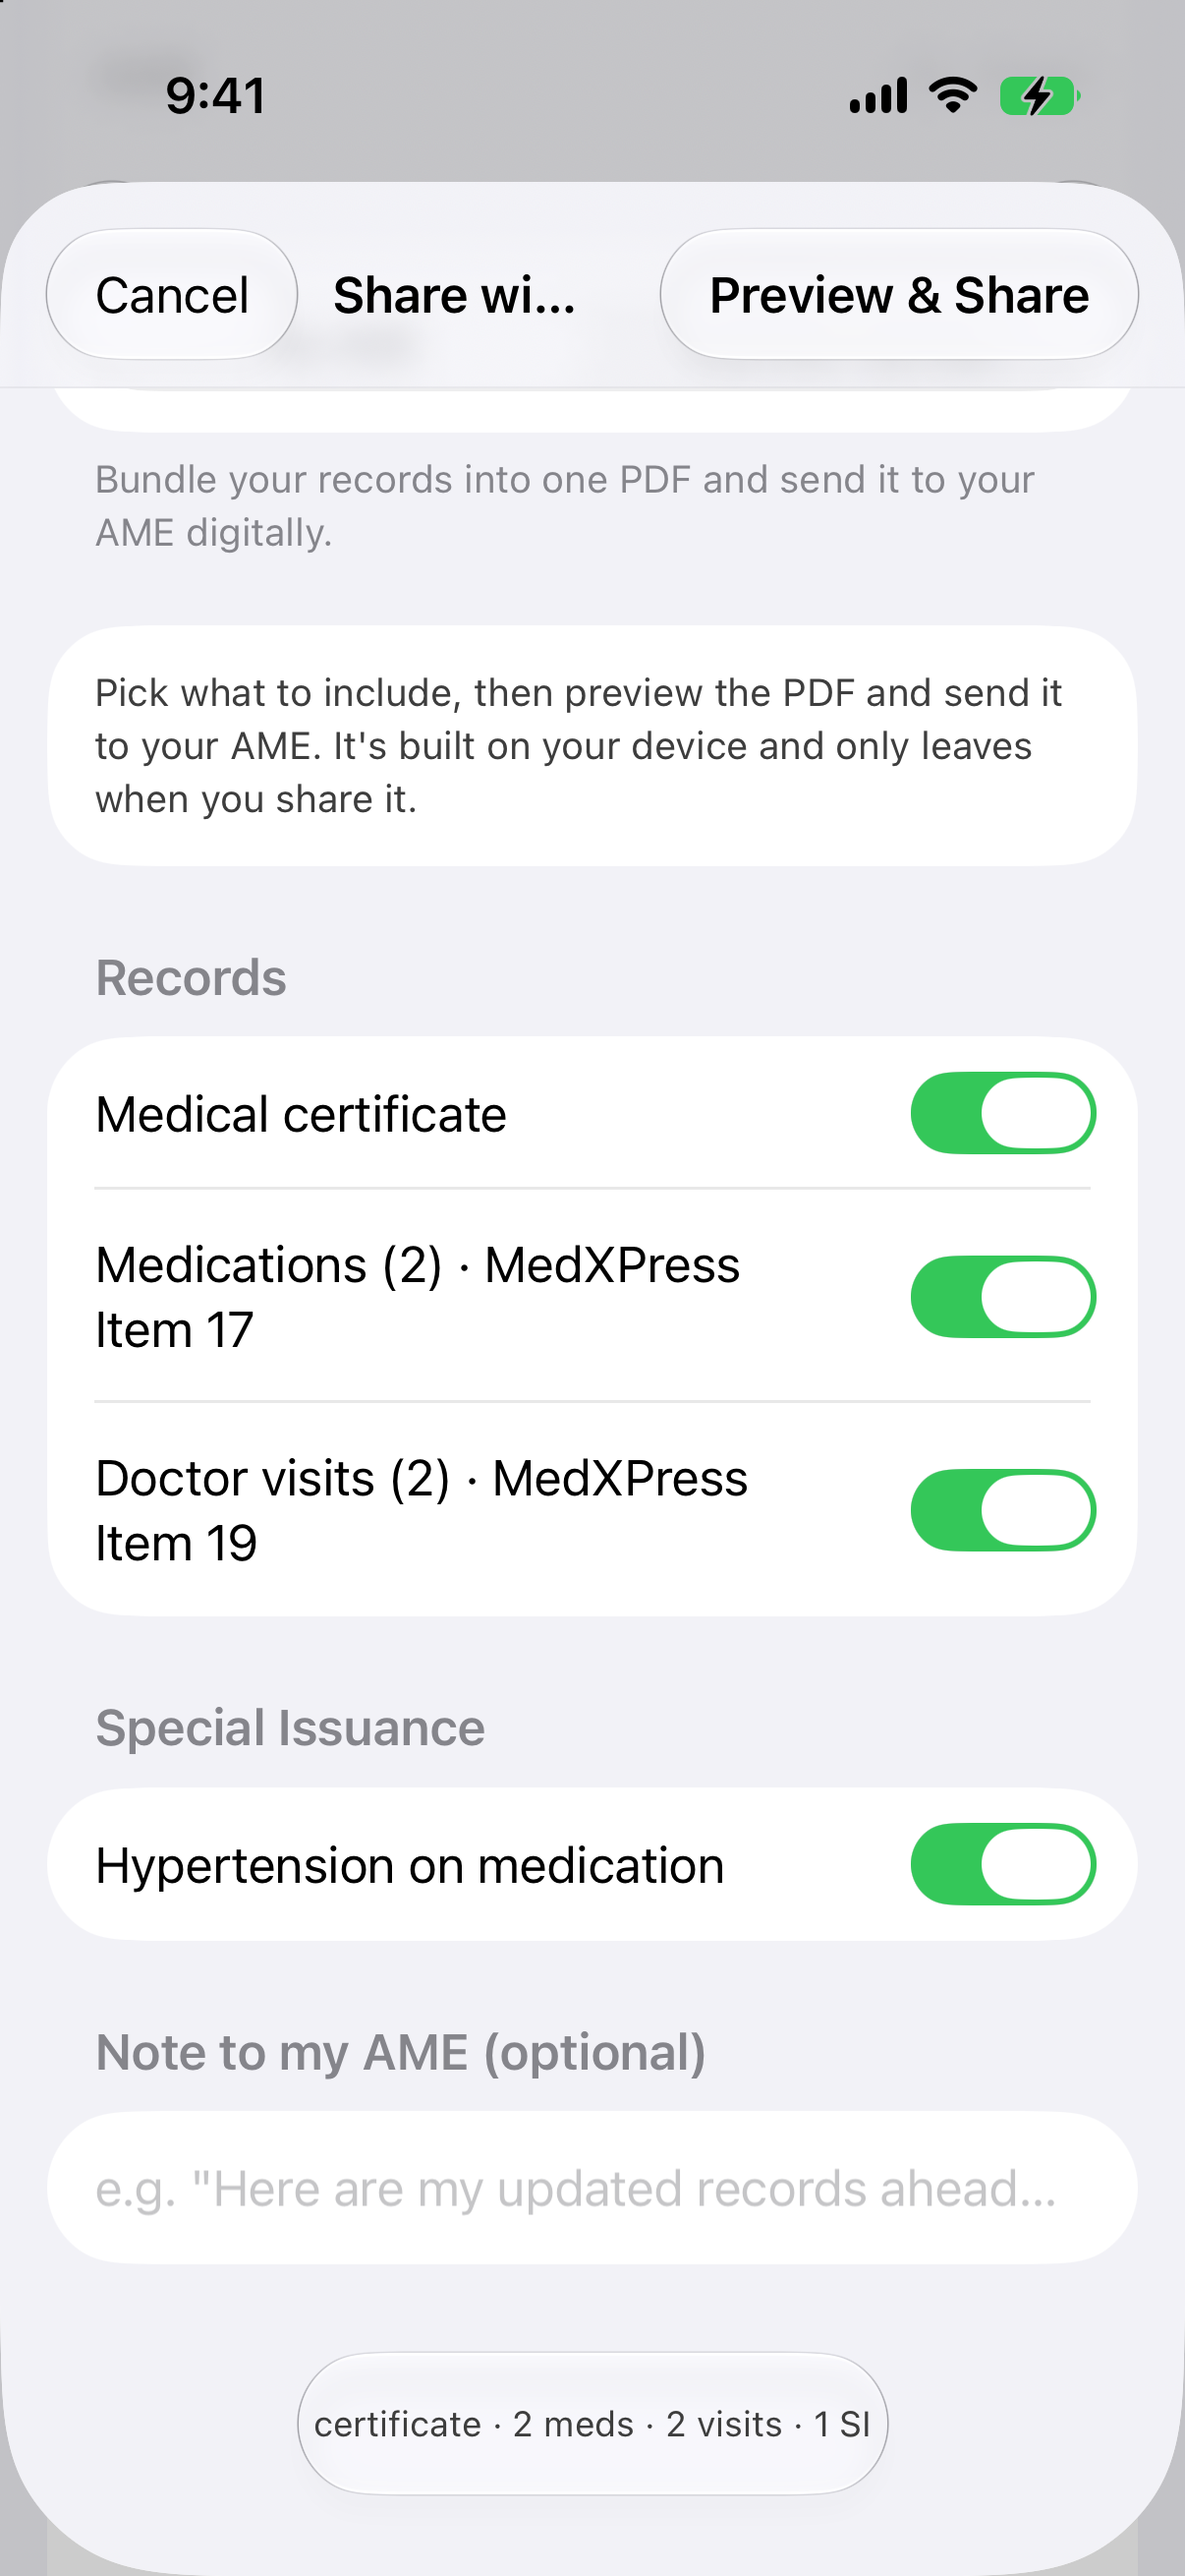
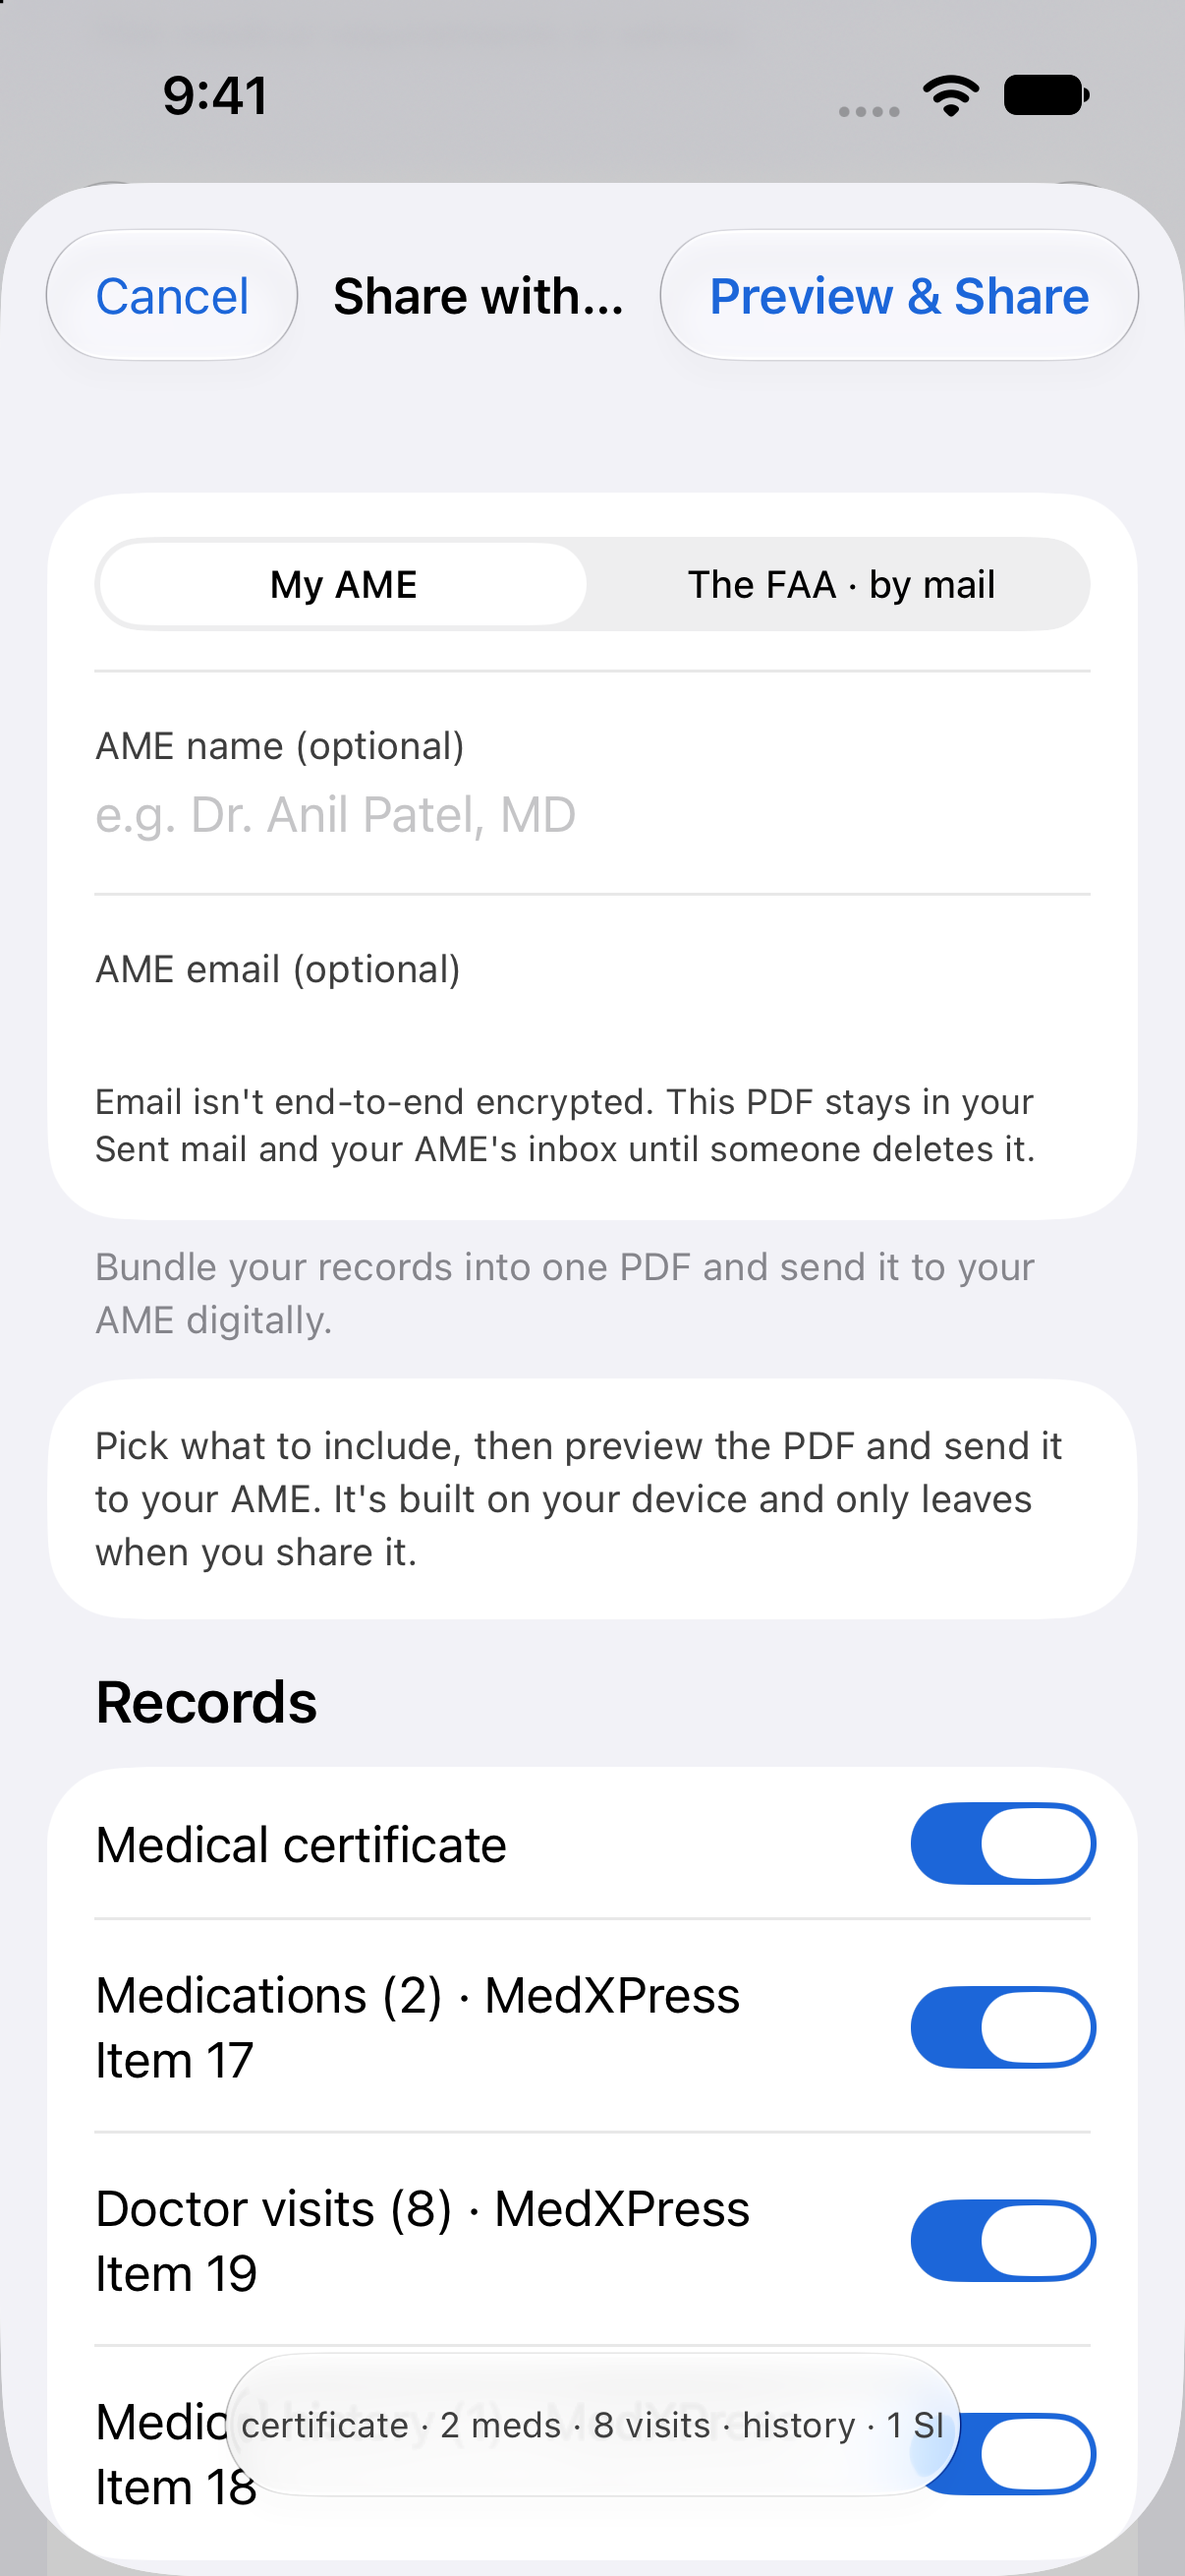
Website sync for iOS 2.3.8: What's New, the records-to-AME FAQ, and the Share with my AME screenshot (Ryan 11/11: "Yes, push it")
- whats-new.html: drop "common dosing" chips (2.3.8 replaced them with MedXPress's 13
  frequency choices); add Email your AME, already addressed (Pro); Fits MedXPress better
  (frequency choices, address symbol check); Autofill setup, easier to find. "On iPhone and
  iPad" until Mac 1.2.9 is live.
- faq.html #faq-share-ame: the pre-addressed AME email and its caution; Mac now "email or
  print" (Mac 1.2.8 already has an Email button).
- documents.png/.webp: re-captured from the 2.3.8 commit (b2cd3d31) on a fresh iPhone 17 Pro
  simulator, demo data, AME name blank (no real AME), shows the AME email field and caution.
  Cache-buster ?v=20261111. Recipe logged in screenshots/README.md.
Local checks green: validate, med-claims, content fidelity.

diff --git a/whats-new.html b/whats-new.html
@@ -92,6 +92,9 @@
       <h3>Now in the app</h3>
       <p class="pro-note">Most of this is free: your renewal countdown and reminders, unlimited record-keeping, the medication reference, Health, and the AME directory, plus one free MedXPress autofill to try it. The items marked <span class="pro-tag">Guardian Pro</span> are part of the optional subscription.</p>
       <ul>
+        <li><strong>Email your AME, already addressed:</strong> <span class="pro-tag">Guardian Pro</span> start Share with my AME from an AME in the directory, or from the AME you marked as yours, and the app fills in the email the FAA's directory lists for them. Check it's where the office wants records sent. One button then opens Apple Mail with your PDF attached and the address, subject and a short note filled in. No Apple Mail account? It copies the address and opens the share sheet for your email app. Email isn't end-to-end encrypted, so the PDF stays in your Sent mail and your AME's inbox until someone deletes it. On iPhone and iPad.</li>
+        <li><strong>Fits MedXPress better:</strong> pick a medication's frequency from MedXPress's own 13 choices, so the autofill can fill it. Older entries are matched when the meaning is the same; if one has no match, the app asks you to pick. If a saved address has a symbol MedXPress rejects, like # or a dash, the app points it out and leaves the fix to you. On iPhone and iPad.</li>
+        <li><strong>Autofill setup, easier to find:</strong> on iPhone and iPad, a Turn on MedXPress autofill card in My Records and MedXPress Prep opens the setup steps. Once it's set up, it shrinks to a small row you can always come back to for help.</li>
         <li><strong>Fewer blanks on MedXPress:</strong> no medications or no doctor visits? Answer Item 17a and Item 19 once in Application Details and the autofill fills No. It also stops at MedXPress's 20-visit limit.</li>
         <li><strong>My Records in MedXPress order:</strong> Application Details, Medications, Item 18, then Doctor Visits, the order you fill out the form.</li>
         <li><strong>MedXPress autofill, Items 1 to 19:</strong> <span class="pro-tag">Guardian Pro</span> save your application details once (address, certificates, employer, flight time) and the extension fills MedXPress's first pages too. Item 18 fills every answer, Yes and No, and after you click Add on a medication or visit, the next one fills itself.</li>
@@ -112,7 +115,7 @@
         <li><strong>Share with my AME:</strong> <span class="pro-tag">Guardian Pro</span> bundle your records and saved documents into one clean PDF and send it to your AME from your phone; you choose what to include, and it's built on your device.</li>
         <li><strong>Mail it to the FAA:</strong> <span class="pro-tag">Guardian Pro</span> when you need to send documents to the FAA by mail, the app assembles a print-ready package: a cover sheet plus the documents you choose, with your name and date of birth on every page the way the FAA asks, so it's ready for the envelope.</li>
         <li><strong>Bring in your documents:</strong> <span class="pro-tag">Guardian Pro</span> add a PDF or photo from Files or Photos, or share one straight into the app from Mail (like a lab result your doctor emailed), alongside the camera scanner, and keep them organized in one place.</li>
-        <li><strong>Faster data entry:</strong> log a visit from Siri, Shortcuts, or the Action button; pull a provider's details from your Contacts; your most recent providers at the top of the list when you pick one for a visit; one-tap chips for recent reasons and common dosing; and add another visit from the same provider in a tap.</li>
+        <li><strong>Faster data entry:</strong> log a visit from Siri, Shortcuts, or the Action button; pull a provider's details from your Contacts; your most recent providers at the top of the list when you pick one for a visit; one-tap chips for recent reasons; and add another visit from the same provider in a tap.</li>
         <li><strong>Provider suggestions:</strong> when you log a visit, the app suggests the clinic names and addresses you've already saved, as you type. They come only from your own records, on your device.</li>
         <li><strong>Calendar import for your visits:</strong> if you keep doctor's appointments on one calendar, connect it and the app offers each appointment as a visit for you to confirm. It reads only the calendar you connect. On iPhone and iPad.</li>
         <li><strong>Apple Health Records import:</strong> pull your real medications and lab results from your healthcare provider, on your device, to speed up your prep.</li>

diff --git a/faq.html b/faq.html
@@ -253,7 +253,7 @@
 
     <details class="qa" id="faq-share-ame">
       <summary>How do I get my records to my AME?</summary>
-      <p>Pilot Medical Guardian bundles what you choose into one clean PDF you hand to your AME straight from your device: email, AirDrop or print on iPhone and iPad, or print and mail it from your Mac. You pick exactly what goes in: your medical certificate, medications, doctor visits, Special Issuance details, and any documents you've saved. You preview it before you send. It's built entirely on your device and only leaves when you send it. It never passes through me. You can also bring in documents you already have: import a PDF or photo on any of your devices (like a lab result your doctor emailed you, or one you saved from MyChart or another portal). On iPhone and iPad you can also scan a paper letter with the camera, or share a PDF straight into the app from Mail or Files in a single tap.</p>
+      <p>Pilot Medical Guardian bundles what you choose into one clean PDF you send to your AME straight from your device: email, AirDrop or print on iPhone and iPad, or email or print it from your Mac. On iPhone and iPad, start from an AME in the directory or the AME you marked as yours, and the email comes up already addressed to the office's email in the FAA's directory, with the PDF attached (no Apple Mail account? the app copies the address for your email app). Check that's where the office wants records sent. Email isn't end-to-end encrypted, so the PDF stays in your Sent mail and your AME's inbox until someone deletes it. You pick exactly what goes in: your medical certificate, medications, doctor visits, Special Issuance details, and any documents you've saved. You preview it before you send. It's built entirely on your device and only leaves when you send it. It never passes through me. You can also bring in documents you already have: import a PDF or photo on any of your devices (like a lab result your doctor emailed you, or one you saved from MyChart or another portal). On iPhone and iPad you can also scan a paper letter with the camera, or share a PDF straight into the app from Mail or Files in a single tap.</p>
     </details>
 
     <details class="qa">

diff --git a/index.html b/index.html
@@ -591,7 +591,7 @@
         <figure><img src="/screenshots/medxpress.webp?v=20261109" width="1206" height="2622" loading="lazy" decoding="async" alt="The in-app records screen with medications and doctor visits organized to match the FAA form"><figcaption>Your records, organized and ready to autofill</figcaption></figure>
         <figure><img src="/screenshots/si.webp?v=20261029" width="1206" height="2620" loading="lazy" decoding="async" alt="Special Issuance checklist with requirements and reminders"><figcaption>Stay on top of Special Issuance</figcaption></figure>
         <figure><img src="/screenshots/health.webp?v=20261029" width="1206" height="2620" loading="lazy" decoding="async" alt="A health metric charted against the FAA's cited threshold"><figcaption>Your numbers vs. the FAA's own thresholds</figcaption></figure>
-        <figure><img src="/screenshots/documents.webp?v=20261029" width="1206" height="2620" loading="lazy" decoding="async" alt="The Share-with-your-AME screen, choosing which records to bundle into one PDF"><figcaption>Bundle it into one PDF for your AME</figcaption></figure>
+        <figure><img src="/screenshots/documents.webp?v=20261111" width="1206" height="2620" loading="lazy" decoding="async" alt="The Share-with-your-AME screen, choosing which records to bundle into one PDF"><figcaption>Bundle it into one PDF for your AME</figcaption></figure>
         <figure><img src="/screenshots/faa-reference.webp?v=20261029" width="1206" height="2620" loading="lazy" decoding="async" alt="An FAA Reference entry showing what the FAA says, its source, and the date the citation was checked"><figcaption>Ask a plain question, get the FAA's cited answer</figcaption></figure>
       </div>
       <p class="fineprint">Screens use sample data.</p>

diff --git a/screenshots/README.md b/screenshots/README.md
@@ -326,3 +326,13 @@ Ryan's real medical record. It was replaced rather than published.
 ⇒ **The check is one grep**: take a distinctive string from the shot and look for it in
 `DemoDataSeeder.swift`. If it is not there, the shot is not demo data, whatever the commit
 message says. On macOS the safe capture always runs with `-PMGScreenshotStore`.
+
+### 2026-11-11: `documents.png` / `.webp` re-captured for iOS 2.3.8 (AME email field)
+
+2.3.8 (live 11/11) adds "AME email (optional)" and the "Email isn't end-to-end encrypted..." caution under the AME name
+on the My AME destination, so the old shot no longer matched the app. Re-captured from the 2.3.8 commit itself
+(`b2cd3d31`, temporary detached worktree), on a FRESH iPhone 17 Pro simulator created for the shot and deleted after (the
+shared booted simulator was left alone): iOS 27.0, light, status bar `--time 9:41` only, `-PMGSeedDemoData` once plus
+`-compedPro YES`, onboarding skipped, My Medical > Share with my AME. AME name left blank: the demo data has no
+favorite AME, so no real AME's name or email appears. Native 1206x2622 cropped to 1206x2620, webp q80, cache-buster
+`?v=20261111`. Note the demo seed now gives 2 meds and 8 visits (repeat visits), not the 2 and 2 noted above.
